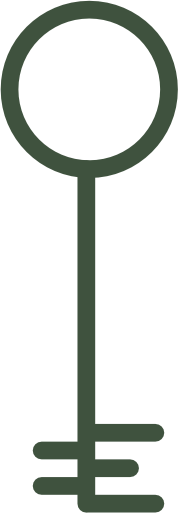
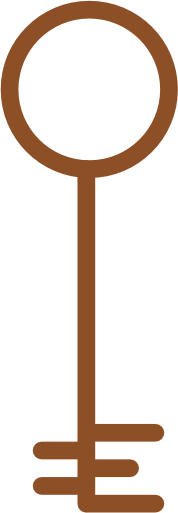
changing keys

Changed region(s): [[0.0, 0.0, 1.0, 1.0]]

diff --git a/src/components/GameBoard1.vue b/src/components/GameBoard1.vue
@@ -75,7 +75,7 @@ const clefs = ref([
   },
   {
     id: 7,
-    image: '/img/clef6.png',
+    image: '/img/clef7.png',
     width: '30px',
     height: '60px',
   },
@@ -142,40 +142,59 @@ const filterClef = (magicKey) => {
 }
 .key-box {
   position: absolute;
-  width: 50px;
-  height: 50px;
-  background-color: #fff;
-  opacity: 10%;
+  width: 25px;
+  height: 25px;
   border-radius: 50%;
   cursor: pointer;
 }
 .key1 {
-  top: 829px;
-  left: 350px;
+  background-image: url(/public/img//key-icon1.png);
+  background-repeat: no-repeat;
+  background-size: cover;
+  top: 838px;
+  left: 360px;
 }
 .key2 {
-  top: 1029px;
-  left: 1096px;
+  background-image: url(/public/img//key-icon1.png);
+  background-repeat: no-repeat;
+  background-size: cover;
+  top: 784px;
+  left: 690px;
 }
 .key3 {
-  top: 849px;
-  left: 1012px;
+  background-image: url(/public/img//key-icon1.png);
+  background-repeat: no-repeat;
+  background-size: cover;
+  top: 1004px;
+  left: 1158px;
 }
 .key4 {
-  top: 1021px;
-  left: 136px;
+  background-image: url(/public/img//key-icon1.png);
+  background-repeat: no-repeat;
+  background-size: cover;
+  top: 1032px;
+  left: 150px;
 }
 .key5 {
-  top: 1288px;
-  left: 139px;
+  background-image: url(/public/img//key-icon1.png);
+  background-repeat: no-repeat;
+  background-size: cover;
+  top: 508px;
+  left: 90px;
 }
 .key6 {
-  top: 1166px;
-  left: 339px;
+  background-image: url(/public/img//key-icon1.png);
+  background-repeat: no-repeat;
+  background-size: cover;
+  top: 1008px;
+  left: 1322px;
 }
 .key7 {
-  top: 159px;
-  left: 913px;
+  background-image: url(/public/img//key-icon1.png);
+  background-repeat: no-repeat;
+  background-size: cover;
+  top: 910px;
+  left: 892px;
 }
 .diamond-container {
   border: solid 4px #eef13c;

diff --git a/src/components/GameBoard.vue b/src/components/GameBoard.vue
@@ -72,8 +72,8 @@ const items = ref([
     image: '/img/clef3.png',
     width: '30px',
     height: '60px',
-    top: '247px',
-    left: '979px',
+    top: '908px',
+    left: '342px',
     rotate: '146deg',
     position: 'absolute',
     cursor: 'pointer',
@@ -104,21 +104,21 @@ const items = ref([
     image: '/img/clef6.png',
     width: '30px',
     height: '60px',
-    top: '423px',
-    left: '1210px',
-    position: 'absolute',
-    cursor: 'pointer',
-  },
-  {
-    id: 6,
-    image: '/img/clef6.png',
-    width: '30px',
-    height: '60px',
     top: '553px',
     left: '101px',
     position: 'absolute',
     cursor: 'pointer',
     rotate: '215deg',
+  },
+  {
+    id: 7,
+    image: '/img/clef7.png',
+    width: '30px',
+    height: '60px',
+    top: '370px',
+    left: '1312px',
+    position: 'absolute',
+    cursor: 'pointer',
   },
 ]);
 const router = useRouter();
